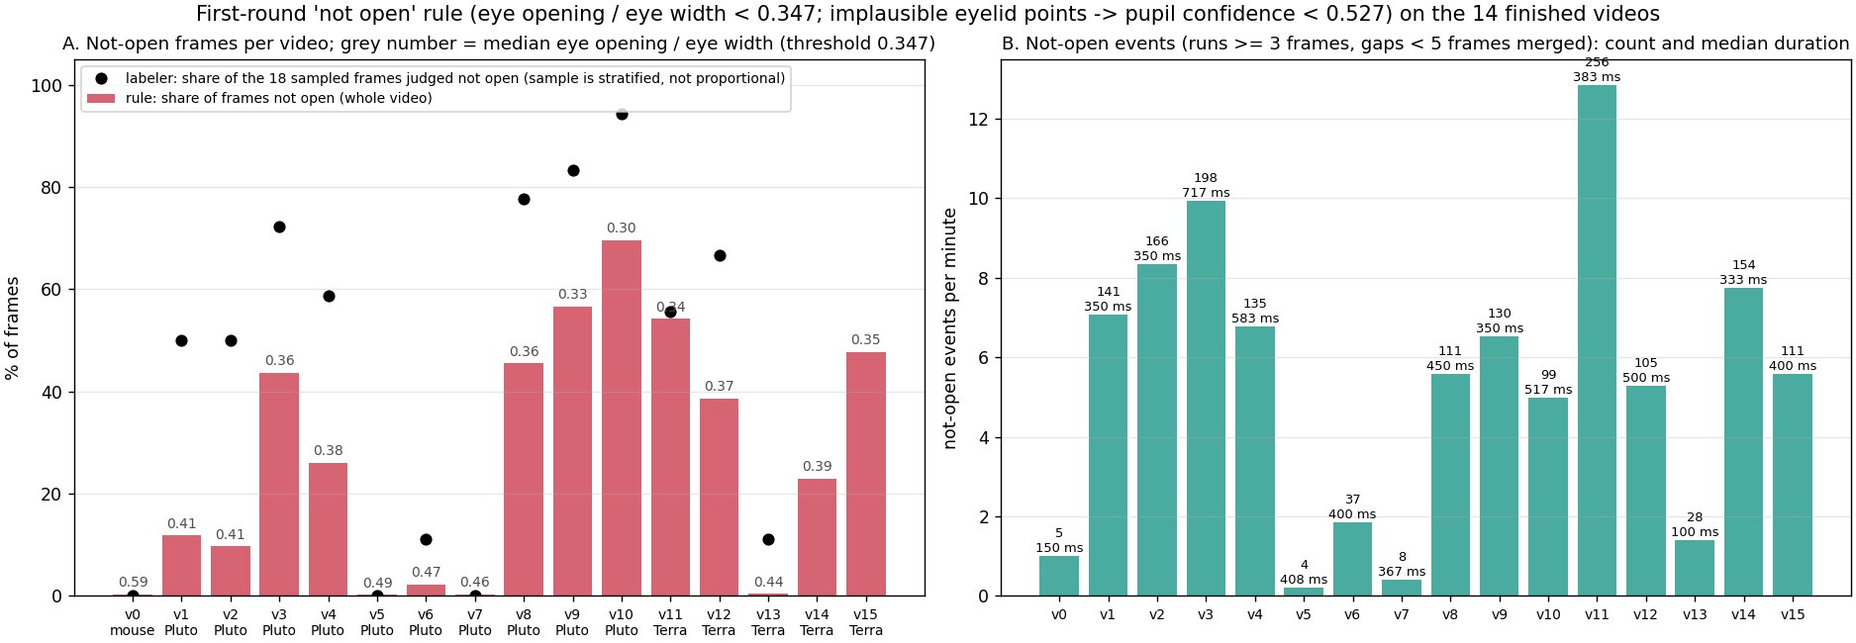
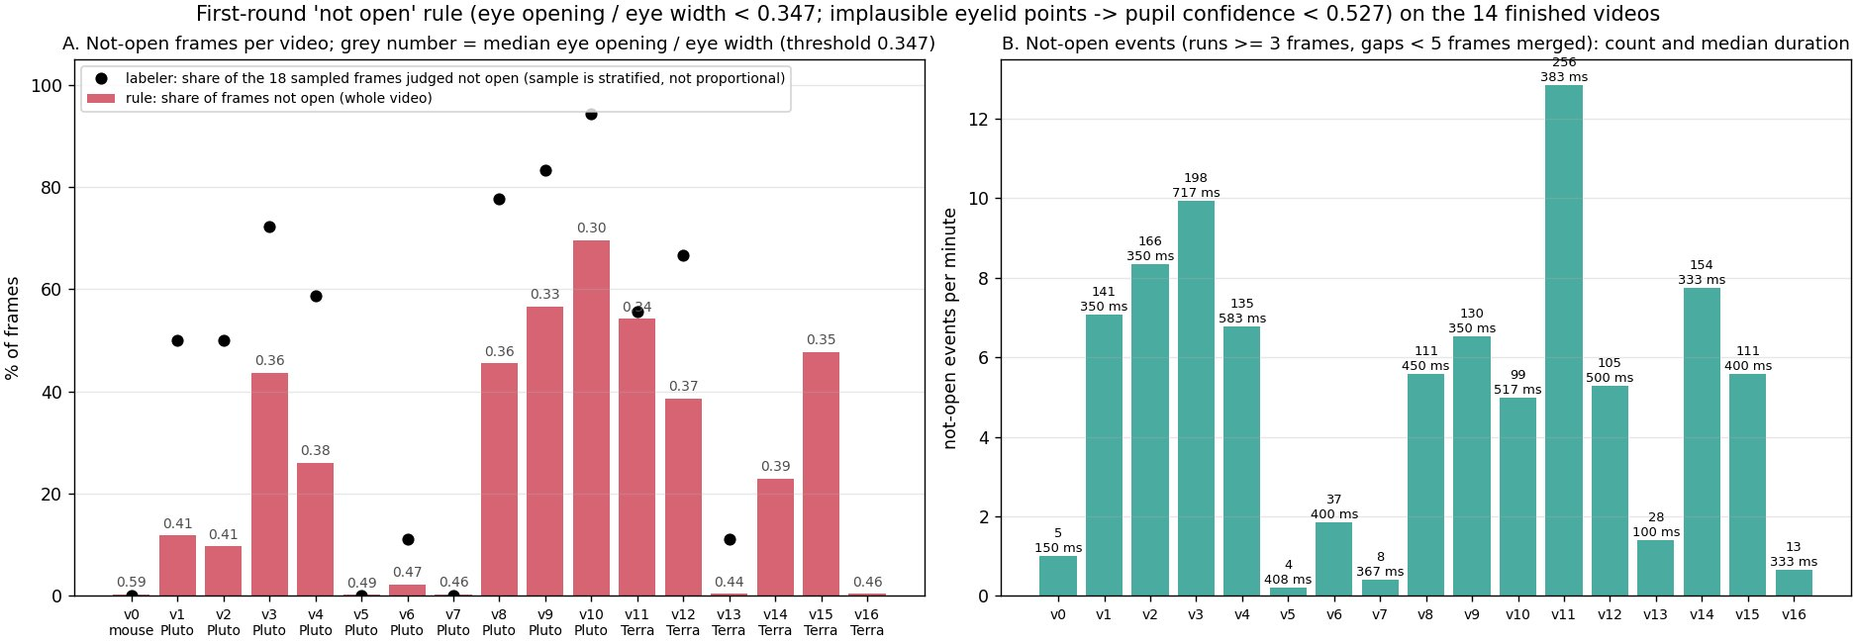
Summary page step 10.2: not-open rule on 17 videos

diff --git a/report/index.html b/report/index.html
@@ -78,7 +78,7 @@ math[display="block"]{margin:10px 0 6px;text-align:left;overflow-x:auto;max-widt
 
 <header>
   <h1><span lang="zh">小鼠眼睛关键点追踪：做了什么，结果是什么</span><span lang="en">Mouse eye keypoint tracking: what was done and what came out</span></h1>
-  <p class="muted small">Zhiheng Li (University of Minnesota), Kaiwen Sheng (Stanford) · <span lang="zh">页面生成时间</span><span lang="en">page built</span> 2026-10-10 12:50 · <a href="https://github.com/ZhihengLi0/mouse-behavior-tracking">GitHub: ZhihengLi0/mouse-behavior-tracking</a></p>
+  <p class="muted small">Zhiheng Li (University of Minnesota), Kaiwen Sheng (Stanford) · <span lang="zh">页面生成时间</span><span lang="en">page built</span> 2026-10-10 12:51 · <a href="https://github.com/ZhihengLi0/mouse-behavior-tracking">GitHub: ZhihengLi0/mouse-behavior-tracking</a></p>
 
   <div class="text" lang="zh">
     <p><b>任务：</b>用 DeepLabCut 在小鼠眼睛视频的每一帧上找 8 个点：瞳孔上、下、左、右，上眼睑、下眼睑，鼻侧眼角、颞侧眼角。由这 8 个点得到瞳孔大小、眼睛睁开程度和眨眼，之后与脑记录对齐。</p>
@@ -461,7 +461,7 @@ math[display="block"]{margin:10px 0 6px;text-align:left;overflow-x:auto;max-widt
       <li><b>视频 0：</b>第一只老鼠的 5 分钟视频。</li>
       <li><b>视频 1、2、3：</b>第二只老鼠 Pluto，同一天（2025-10-31）录的三段，每段 19.9 分钟。</li>
       <li><b>视频 4–10：</b>Pluto，每个录制日一段，日期从近到远：10-30、10-29、10-28、10-27、10-24、10-23、10-22（我们手里没有 10-26、10-25 的视频）。</li>
-      <li><b>视频 11 起：</b>第三只老鼠 Terra，每个录制日一段，日期从近到远：视频 11 是 2025-10-17，视频 12 是 10-16，之后依次是 10-15、10-14、10-13、10-10、10-09、10-08（视频 13–18，还没有做）。</li>
+      <li><b>视频 11 起：</b>第三只老鼠 Terra，每个录制日一段，日期从近到远：视频 11 是 2025-10-17，视频 12 是 10-16，之后依次是 10-15、10-14、10-13、10-10、10-09、10-08（视频 13–18；视频 17、18 还没有做完）。</li>
     </ul>
     <p>每个视频的流程相同：</p>
     <ol>
@@ -478,7 +478,7 @@ math[display="block"]{margin:10px 0 6px;text-align:left;overflow-x:auto;max-widt
       <li><b>Video 0:</b> the 5-minute video of the first mouse.</li>
       <li><b>Videos 1, 2, 3:</b> the second mouse, Pluto; three recordings of the same day (2025-10-31), 19.9 minutes each.</li>
       <li><b>Videos 4–10:</b> Pluto, one recording per recording day, from the most recent backwards: 10-30, 10-29, 10-28, 10-27, 10-24, 10-23, 10-22 (there is no video of 10-26 or 10-25 in our set).</li>
-      <li><b>From video 11:</b> the third mouse, Terra, one recording per recording day, from the most recent backwards: video 11 is 2025-10-17, video 12 is 10-16, then 10-15, 10-14, 10-13, 10-10, 10-09, 10-08 (videos 13–18, not done yet).</li>
+      <li><b>From video 11:</b> the third mouse, Terra, one recording per recording day, from the most recent backwards: video 11 is 2025-10-17, video 12 is 10-16, then 10-15, 10-14, 10-13, 10-10, 10-09, 10-08 (videos 13–18; videos 17 and 18 are not finished yet).</li>
     </ul>
     <p>Every video follows the same steps:</p>
     <ol>
@@ -1068,13 +1068,13 @@ math[display="block"]{margin:10px 0 6px;text-align:left;overflow-x:auto;max-widt
   <h3><span lang="zh">10.2 第一轮的定义定下来之后：按帧的"非睁眼"规则和它的验证</span><span lang="en">10.2 With the first-round definition fixed: a per-frame "not open" rule and its check</span></h3>
   <div class="text" lang="zh">
     <p><b>定义（2026 年 10 月 6 日定）：</b>第一轮只分两种状态——<b>睁开</b>，和<b>非睁眼</b>（眼睛闭上，或眼睑盖住了部分瞳孔）。眨眼、长时间闭眼、眯眼的细分放到下一轮。</p>
-    <p><b>基本信息：</b>视频 0–15，各视频平台点模型对整段视频的预测（盲评样本抽自视频 0–13）。真值：标注者对 240 帧单帧的盲评（2026 年 10 月 6 日；每个视频 18 帧，按模型的相对睁开高度 r 分五层随机抽：r &lt; 0.70、0.70–0.85、0.85–1.00、≥ 1.00 各 4 帧，眼睑点失效 2 帧；与前两轮抽查不重叠；页面只显示单帧原图，不显示任何数值），三选一：睁开 / 非睁眼 / 看不清。239 帧有判断，113 帧非睁眼，没有"看不清"。原图和判断见附录 2。脚本：<code>scripts/blink_notopen_frames_sample.py</code>（抽样）、<code>blink_notopen_frames_eval.py</code>（信号比较）、<code>blink_notopen_rule.py</code>（最终规则和整段结果）；结果 <code>results/blink_eyelid_distance/blink_notopen_*</code>。</p>
+    <p><b>基本信息：</b>视频 0–16，各视频平台点模型对整段视频的预测（盲评样本抽自视频 0–13）。真值：标注者对 240 帧单帧的盲评（2026 年 10 月 6 日；每个视频 18 帧，按模型的相对睁开高度 r 分五层随机抽：r &lt; 0.70、0.70–0.85、0.85–1.00、≥ 1.00 各 4 帧，眼睑点失效 2 帧；与前两轮抽查不重叠；页面只显示单帧原图，不显示任何数值），三选一：睁开 / 非睁眼 / 看不清。239 帧有判断，113 帧非睁眼，没有"看不清"。原图和判断见附录 2。脚本：<code>scripts/blink_notopen_frames_sample.py</code>（抽样）、<code>blink_notopen_frames_eval.py</code>（信号比较）、<code>blink_notopen_rule.py</code>（最终规则和整段结果）；结果 <code>results/blink_eyelid_distance/blink_notopen_*</code>。</p>
     <p><b>为什么要换信号：</b>10.1 的规则 D 用的是"睁开高度 ÷ 该视频的中位数"，它在 0.70–0.85 这一层的检出率是 0——因为按帧看，视频 3、8、9、10、11、12 里 r 在 0.70–1.00 的帧几乎全被判为非睁眼，而视频 0、5、7、13 里同样的帧全是睁开的（附录 2 一眼能看出）。也就是说"眼睑盖住部分瞳孔"在这些录像里是整段的常态，相对自己中位数的量看不见它。改用<b>绝对量</b>：睁开高度 O ÷ 眼宽 W（W = 该视频内外眼角距离的中位数，相机固定，各视频接近），它把两类帧分得很开（AUC 0.97；相对量 r 只有 0.85）。每个视频的 O/W 中位数也正好对上：被判为多数非睁眼的视频中位数 0.30–0.38，多数睁开的视频 0.41–0.59。</p>
     <p><b>最终规则（按帧）：</b>（1）眼睑点正常且 O / W &lt; <b>0.347</b> → 非睁眼；（2）眼睑点失效的帧，四个瞳孔点平均置信度 &lt; 0.527 → 非睁眼，否则睁开（10.1 里"失效一律算闭眼"是错的：28 帧失效里 13 帧眼睛是睁着的，用瞳孔置信度能分对 26 帧）；（3）连续 ≥ 3 帧算一次事件，间隔 &lt; 5 帧的合并。阈值 0.347 是在这 239 帧上选的（最大化"检出率 − 误报率"）；按"留一个视频"选阈值再判，结论相同（准确率 85%、检出率 91%）。</p>
   </div>
   <div class="text" lang="en">
     <p><b>Definition (fixed 2026-10-06):</b> the first round distinguishes two states only — <b>open</b>, and <b>not open</b> (the eye is closed, or the eyelid covers part of the pupil). Blink / long closure / squint come in the next round.</p>
-    <p><b>Basic information:</b> videos 0–15, whole-video prediction of each video's plateau-point model (the blind sample was drawn from videos 0–13). Truth: the labeler's blind verdict on 240 single frames (2026-10-06; 18 per video, drawn at random in five strata of the model's relative eye opening r: r &lt; 0.70, 0.70–0.85, 0.85–1.00, ≥ 1.00 with 4 frames each, 2 frames with implausible eyelid points; no overlap with the two earlier spot checks; the sheet shows the single original frame and no values), one of open / not open / cannot tell. 239 frames judged, 113 not open, no "cannot tell". Frames and verdicts in appendix A2. Scripts: <code>scripts/blink_notopen_frames_sample.py</code> (sample), <code>blink_notopen_frames_eval.py</code> (signal comparison), <code>blink_notopen_rule.py</code> (final rule and whole-video results); results <code>results/blink_eyelid_distance/blink_notopen_*</code>.</p>
+    <p><b>Basic information:</b> videos 0–16, whole-video prediction of each video's plateau-point model (the blind sample was drawn from videos 0–13). Truth: the labeler's blind verdict on 240 single frames (2026-10-06; 18 per video, drawn at random in five strata of the model's relative eye opening r: r &lt; 0.70, 0.70–0.85, 0.85–1.00, ≥ 1.00 with 4 frames each, 2 frames with implausible eyelid points; no overlap with the two earlier spot checks; the sheet shows the single original frame and no values), one of open / not open / cannot tell. 239 frames judged, 113 not open, no "cannot tell". Frames and verdicts in appendix A2. Scripts: <code>scripts/blink_notopen_frames_sample.py</code> (sample), <code>blink_notopen_frames_eval.py</code> (signal comparison), <code>blink_notopen_rule.py</code> (final rule and whole-video results); results <code>results/blink_eyelid_distance/blink_notopen_*</code>.</p>
     <p><b>Why the signal had to change:</b> rule D of 10.1 uses the eye opening relative to the video's own median, and its recall in the 0.70–0.85 stratum is 0 — because, frame by frame, almost every frame with r in 0.70–1.00 of videos 3, 8, 9, 10, 11 and 12 was judged not open, while the same frames of videos 0, 5, 7 and 13 were all open (appendix A2 shows it at a glance). "Lid over part of the pupil" is the resting state of those recordings, and a quantity relative to the video's own median cannot see it. The <b>absolute</b> eye opening O ÷ eye width W (W = median corner-to-corner distance of the video; the camera is fixed, so W is similar across videos) separates the two classes well (AUC 0.97; the relative r only 0.85). The per-video medians of O/W agree: 0.30–0.38 in the videos judged mostly not open, 0.41–0.59 in the videos judged open.</p>
     <p><b>Final rule (per frame):</b> (1) eyelid points plausible and O / W &lt; <b>0.347</b> → not open; (2) frame with implausible eyelid points: not open if the mean confidence of the four pupil points &lt; 0.527, otherwise open ("implausible = closed" of 10.1 was wrong: 13 of 28 implausible frames show an open eye, and the pupil confidence gets 26 of the 28 right); (3) runs of ≥ 3 frames are events, gaps &lt; 5 frames merged. The threshold 0.347 was chosen on these 239 frames (maximizing recall − false-alarm rate); with leave-one-video-out thresholds the conclusion is the same (precision 85%, recall 91%).</p>
   </div>
@@ -1098,7 +1098,7 @@ math[display="block"]{margin:10px 0 6px;text-align:left;overflow-x:auto;max-widt
   <div class="concl" lang="zh"><span class="tag">10.2 的结论：</span>按"非睁眼 = 闭上或部分盖住"的定义，绝对睁开高度的规则在单帧上准确率 91%；它揭示的主要事实是：<b>非睁眼在这些录像里是一种状态，不是偶发事件。</b>
     <ol>
       <li><b>准确率：</b>239 帧盲评里规则判对 217 帧（90.8%）；规则判为非睁眼的帧 89% 是真的，真非睁眼的帧 92% 被找到。错得最多的一层是 r 在 0.85–1.00（55 帧错 10 帧），那是眼睑刚碰到瞳孔上缘的边界情况。</li>
-      <li><b>16 个视频分成两类：</b>视频 0、5、7、13 几乎全程睁开（非睁眼帧 0.2–0.4%）；视频 1、2、6 为 2–12%，视频 14 为 23%；<b>视频 3、4、8、9、10、11、12、15 有 26–70% 的时间眼睛不是完全睁开的</b>，最长的一次连续非睁眼持续 44–212 秒。这些录像里眼睛的常态就是半掩的，O/W 的中位数 0.30–0.38（睁开的视频 0.41–0.59）。</li>
+      <li><b>17 个视频分成两类：</b>视频 0、5、7、13、16 几乎全程睁开（非睁眼帧 0.2–0.4%）；视频 1、2、6 为 2–12%，视频 14 为 23%；<b>视频 3、4、8、9、10、11、12、15 有 26–70% 的时间眼睛不是完全睁开的</b>，最长的一次连续非睁眼持续 44–212 秒。这些录像里眼睛的常态就是半掩的，O/W 的中位数 0.30–0.38（睁开的视频 0.41–0.59）。</li>
       <li><b>事件数：</b>每分钟 0.2–12.8 次，时长中位数 100–717 毫秒。在半掩为常态的视频里，"事件"大多是半掩状态中间短暂睁开后的再次合上，不能当成眨眼次数。</li>
       <li><b>对眨眼的含义：</b>眨眼（短暂、完全闭合）只是"非睁眼"的一个子集。要数眨眼，下一轮需要在这个状态判断上再按深度（O/W 低到多少）和时长（多短）切分——10.1 里完全闭眼的 18 项全在 r &lt; 0.70 以下，说明这一刀是切得开的。</li>
       <li><b>限制：</b>一个人判断；阈值在验证帧上选（留一视频的数字略低：85% / 91%）；每个视频只用一个模型；"眼睑盖住部分瞳孔"的判断本身有边界（r 0.85–1.00 那一层），标注者第二次判同一批帧的一致性没有量过。</li>
@@ -1107,7 +1107,7 @@ math[display="block"]{margin:10px 0 6px;text-align:left;overflow-x:auto;max-widt
   <div class="concl" lang="en"><span class="tag">Conclusion of 10.2:</span>Under the definition "not open = closed or partly covered", the absolute-eye-opening rule is 91% accurate per frame; its main finding is that <b>not-open is a state in these recordings, not an occasional event.</b>
     <ol>
       <li><b>Accuracy:</b> 217 of the 239 blind frames are classified correctly (90.8%); 89% of the frames the rule calls not open are, and 92% of the truly not-open frames are found. Most mistakes are in the r 0.85–1.00 stratum (10 of 55), the borderline where the lid just touches the top of the pupil.</li>
-      <li><b>The 16 videos fall into two groups:</b> videos 0, 5, 7 and 13 are open almost throughout (0.2–0.4% not-open frames); videos 1, 2, 6 have 2–12% and video 14 23%; <b>videos 3, 4, 8, 9, 10, 11, 12 and 15 have the eye not fully open 26–70% of the time</b>, with single not-open stretches of 44–212 s. In those recordings a half-covered eye is the resting state: median O/W 0.30–0.38 against 0.41–0.59 in the open videos.</li>
+      <li><b>The 17 videos fall into two groups:</b> videos 0, 5, 7, 13 and 16 are open almost throughout (0.2–0.4% not-open frames); videos 1, 2, 6 have 2–12% and video 14 23%; <b>videos 3, 4, 8, 9, 10, 11, 12 and 15 have the eye not fully open 26–70% of the time</b>, with single not-open stretches of 44–212 s. In those recordings a half-covered eye is the resting state: median O/W 0.30–0.38 against 0.41–0.59 in the open videos.</li>
       <li><b>Events:</b> 0.2–12.8 per minute, median duration 100–717 ms. In the half-covered videos most "events" are re-closings after brief openings within the covered state and must not be read as blink counts.</li>
       <li><b>What it means for blinks:</b> a blink (brief, full closure) is a subset of "not open". Counting blinks needs a further split of this state by depth (how low O/W goes) and duration (how brief) — all 18 full closures of 10.1 lie below r 0.70, so that cut is feasible.</li>
       <li><b>Limits:</b> one judge; the threshold was chosen on the validation frames (leave-one-video-out gives slightly lower numbers: 85% / 91%); one model per video; the judgement "lid covers part of the pupil" has its own borderline (the r 0.85–1.00 stratum), and the labeler's repeatability on the same frames was not measured.</li>

diff --git a/report/template.html b/report/template.html
@@ -461,7 +461,7 @@ math[display="block"]{margin:10px 0 6px;text-align:left;overflow-x:auto;max-widt
       <li><b>视频 0：</b>第一只老鼠的 5 分钟视频。</li>
       <li><b>视频 1、2、3：</b>第二只老鼠 Pluto，同一天（2025-10-31）录的三段，每段 19.9 分钟。</li>
       <li><b>视频 4–10：</b>Pluto，每个录制日一段，日期从近到远：10-30、10-29、10-28、10-27、10-24、10-23、10-22（我们手里没有 10-26、10-25 的视频）。</li>
-      <li><b>视频 11 起：</b>第三只老鼠 Terra，每个录制日一段，日期从近到远：视频 11 是 2025-10-17，视频 12 是 10-16，之后依次是 10-15、10-14、10-13、10-10、10-09、10-08（视频 13–18，还没有做）。</li>
+      <li><b>视频 11 起：</b>第三只老鼠 Terra，每个录制日一段，日期从近到远：视频 11 是 2025-10-17，视频 12 是 10-16，之后依次是 10-15、10-14、10-13、10-10、10-09、10-08（视频 13–18；视频 17、18 还没有做完）。</li>
     </ul>
     <p>每个视频的流程相同：</p>
     <ol>
@@ -478,7 +478,7 @@ math[display="block"]{margin:10px 0 6px;text-align:left;overflow-x:auto;max-widt
       <li><b>Video 0:</b> the 5-minute video of the first mouse.</li>
       <li><b>Videos 1, 2, 3:</b> the second mouse, Pluto; three recordings of the same day (2025-10-31), 19.9 minutes each.</li>
       <li><b>Videos 4–10:</b> Pluto, one recording per recording day, from the most recent backwards: 10-30, 10-29, 10-28, 10-27, 10-24, 10-23, 10-22 (there is no video of 10-26 or 10-25 in our set).</li>
-      <li><b>From video 11:</b> the third mouse, Terra, one recording per recording day, from the most recent backwards: video 11 is 2025-10-17, video 12 is 10-16, then 10-15, 10-14, 10-13, 10-10, 10-09, 10-08 (videos 13–18, not done yet).</li>
+      <li><b>From video 11:</b> the third mouse, Terra, one recording per recording day, from the most recent backwards: video 11 is 2025-10-17, video 12 is 10-16, then 10-15, 10-14, 10-13, 10-10, 10-09, 10-08 (videos 13–18; videos 17 and 18 are not finished yet).</li>
     </ul>
     <p>Every video follows the same steps:</p>
     <ol>
@@ -972,13 +972,13 @@ math[display="block"]{margin:10px 0 6px;text-align:left;overflow-x:auto;max-widt
   <h3><span lang="zh">10.2 第一轮的定义定下来之后：按帧的"非睁眼"规则和它的验证</span><span lang="en">10.2 With the first-round definition fixed: a per-frame "not open" rule and its check</span></h3>
   <div class="text" lang="zh">
     <p><b>定义（2026 年 10 月 6 日定）：</b>第一轮只分两种状态——<b>睁开</b>，和<b>非睁眼</b>（眼睛闭上，或眼睑盖住了部分瞳孔）。眨眼、长时间闭眼、眯眼的细分放到下一轮。</p>
-    <p><b>基本信息：</b>视频 0–15，各视频平台点模型对整段视频的预测（盲评样本抽自视频 0–13）。真值：标注者对 240 帧单帧的盲评（2026 年 10 月 6 日；每个视频 18 帧，按模型的相对睁开高度 r 分五层随机抽：r &lt; 0.70、0.70–0.85、0.85–1.00、≥ 1.00 各 4 帧，眼睑点失效 2 帧；与前两轮抽查不重叠；页面只显示单帧原图，不显示任何数值），三选一：睁开 / 非睁眼 / 看不清。239 帧有判断，113 帧非睁眼，没有"看不清"。原图和判断见附录 2。脚本：<code>scripts/blink_notopen_frames_sample.py</code>（抽样）、<code>blink_notopen_frames_eval.py</code>（信号比较）、<code>blink_notopen_rule.py</code>（最终规则和整段结果）；结果 <code>results/blink_eyelid_distance/blink_notopen_*</code>。</p>
+    <p><b>基本信息：</b>视频 0–16，各视频平台点模型对整段视频的预测（盲评样本抽自视频 0–13）。真值：标注者对 240 帧单帧的盲评（2026 年 10 月 6 日；每个视频 18 帧，按模型的相对睁开高度 r 分五层随机抽：r &lt; 0.70、0.70–0.85、0.85–1.00、≥ 1.00 各 4 帧，眼睑点失效 2 帧；与前两轮抽查不重叠；页面只显示单帧原图，不显示任何数值），三选一：睁开 / 非睁眼 / 看不清。239 帧有判断，113 帧非睁眼，没有"看不清"。原图和判断见附录 2。脚本：<code>scripts/blink_notopen_frames_sample.py</code>（抽样）、<code>blink_notopen_frames_eval.py</code>（信号比较）、<code>blink_notopen_rule.py</code>（最终规则和整段结果）；结果 <code>results/blink_eyelid_distance/blink_notopen_*</code>。</p>
     <p><b>为什么要换信号：</b>10.1 的规则 D 用的是"睁开高度 ÷ 该视频的中位数"，它在 0.70–0.85 这一层的检出率是 0——因为按帧看，视频 3、8、9、10、11、12 里 r 在 0.70–1.00 的帧几乎全被判为非睁眼，而视频 0、5、7、13 里同样的帧全是睁开的（附录 2 一眼能看出）。也就是说"眼睑盖住部分瞳孔"在这些录像里是整段的常态，相对自己中位数的量看不见它。改用<b>绝对量</b>：睁开高度 O ÷ 眼宽 W（W = 该视频内外眼角距离的中位数，相机固定，各视频接近），它把两类帧分得很开（AUC 0.97；相对量 r 只有 0.85）。每个视频的 O/W 中位数也正好对上：被判为多数非睁眼的视频中位数 0.30–0.38，多数睁开的视频 0.41–0.59。</p>
     <p><b>最终规则（按帧）：</b>（1）眼睑点正常且 O / W &lt; <b>0.347</b> → 非睁眼；（2）眼睑点失效的帧，四个瞳孔点平均置信度 &lt; 0.527 → 非睁眼，否则睁开（10.1 里"失效一律算闭眼"是错的：28 帧失效里 13 帧眼睛是睁着的，用瞳孔置信度能分对 26 帧）；（3）连续 ≥ 3 帧算一次事件，间隔 &lt; 5 帧的合并。阈值 0.347 是在这 239 帧上选的（最大化"检出率 − 误报率"）；按"留一个视频"选阈值再判，结论相同（准确率 85%、检出率 91%）。</p>
   </div>
   <div class="text" lang="en">
     <p><b>Definition (fixed 2026-10-06):</b> the first round distinguishes two states only — <b>open</b>, and <b>not open</b> (the eye is closed, or the eyelid covers part of the pupil). Blink / long closure / squint come in the next round.</p>
-    <p><b>Basic information:</b> videos 0–15, whole-video prediction of each video's plateau-point model (the blind sample was drawn from videos 0–13). Truth: the labeler's blind verdict on 240 single frames (2026-10-06; 18 per video, drawn at random in five strata of the model's relative eye opening r: r &lt; 0.70, 0.70–0.85, 0.85–1.00, ≥ 1.00 with 4 frames each, 2 frames with implausible eyelid points; no overlap with the two earlier spot checks; the sheet shows the single original frame and no values), one of open / not open / cannot tell. 239 frames judged, 113 not open, no "cannot tell". Frames and verdicts in appendix A2. Scripts: <code>scripts/blink_notopen_frames_sample.py</code> (sample), <code>blink_notopen_frames_eval.py</code> (signal comparison), <code>blink_notopen_rule.py</code> (final rule and whole-video results); results <code>results/blink_eyelid_distance/blink_notopen_*</code>.</p>
+    <p><b>Basic information:</b> videos 0–16, whole-video prediction of each video's plateau-point model (the blind sample was drawn from videos 0–13). Truth: the labeler's blind verdict on 240 single frames (2026-10-06; 18 per video, drawn at random in five strata of the model's relative eye opening r: r &lt; 0.70, 0.70–0.85, 0.85–1.00, ≥ 1.00 with 4 frames each, 2 frames with implausible eyelid points; no overlap with the two earlier spot checks; the sheet shows the single original frame and no values), one of open / not open / cannot tell. 239 frames judged, 113 not open, no "cannot tell". Frames and verdicts in appendix A2. Scripts: <code>scripts/blink_notopen_frames_sample.py</code> (sample), <code>blink_notopen_frames_eval.py</code> (signal comparison), <code>blink_notopen_rule.py</code> (final rule and whole-video results); results <code>results/blink_eyelid_distance/blink_notopen_*</code>.</p>
     <p><b>Why the signal had to change:</b> rule D of 10.1 uses the eye opening relative to the video's own median, and its recall in the 0.70–0.85 stratum is 0 — because, frame by frame, almost every frame with r in 0.70–1.00 of videos 3, 8, 9, 10, 11 and 12 was judged not open, while the same frames of videos 0, 5, 7 and 13 were all open (appendix A2 shows it at a glance). "Lid over part of the pupil" is the resting state of those recordings, and a quantity relative to the video's own median cannot see it. The <b>absolute</b> eye opening O ÷ eye width W (W = median corner-to-corner distance of the video; the camera is fixed, so W is similar across videos) separates the two classes well (AUC 0.97; the relative r only 0.85). The per-video medians of O/W agree: 0.30–0.38 in the videos judged mostly not open, 0.41–0.59 in the videos judged open.</p>
     <p><b>Final rule (per frame):</b> (1) eyelid points plausible and O / W &lt; <b>0.347</b> → not open; (2) frame with implausible eyelid points: not open if the mean confidence of the four pupil points &lt; 0.527, otherwise open ("implausible = closed" of 10.1 was wrong: 13 of 28 implausible frames show an open eye, and the pupil confidence gets 26 of the 28 right); (3) runs of ≥ 3 frames are events, gaps &lt; 5 frames merged. The threshold 0.347 was chosen on these 239 frames (maximizing recall − false-alarm rate); with leave-one-video-out thresholds the conclusion is the same (precision 85%, recall 91%).</p>
   </div>
@@ -1002,7 +1002,7 @@ math[display="block"]{margin:10px 0 6px;text-align:left;overflow-x:auto;max-widt
   <div class="concl" lang="zh"><span class="tag">10.2 的结论：</span>按"非睁眼 = 闭上或部分盖住"的定义，绝对睁开高度的规则在单帧上准确率 91%；它揭示的主要事实是：<b>非睁眼在这些录像里是一种状态，不是偶发事件。</b>
     <ol>
       <li><b>准确率：</b>239 帧盲评里规则判对 217 帧（90.8%）；规则判为非睁眼的帧 89% 是真的，真非睁眼的帧 92% 被找到。错得最多的一层是 r 在 0.85–1.00（55 帧错 10 帧），那是眼睑刚碰到瞳孔上缘的边界情况。</li>
-      <li><b>16 个视频分成两类：</b>视频 0、5、7、13 几乎全程睁开（非睁眼帧 0.2–0.4%）；视频 1、2、6 为 2–12%，视频 14 为 23%；<b>视频 3、4、8、9、10、11、12、15 有 26–70% 的时间眼睛不是完全睁开的</b>，最长的一次连续非睁眼持续 44–212 秒。这些录像里眼睛的常态就是半掩的，O/W 的中位数 0.30–0.38（睁开的视频 0.41–0.59）。</li>
+      <li><b>17 个视频分成两类：</b>视频 0、5、7、13、16 几乎全程睁开（非睁眼帧 0.2–0.4%）；视频 1、2、6 为 2–12%，视频 14 为 23%；<b>视频 3、4、8、9、10、11、12、15 有 26–70% 的时间眼睛不是完全睁开的</b>，最长的一次连续非睁眼持续 44–212 秒。这些录像里眼睛的常态就是半掩的，O/W 的中位数 0.30–0.38（睁开的视频 0.41–0.59）。</li>
       <li><b>事件数：</b>每分钟 0.2–12.8 次，时长中位数 100–717 毫秒。在半掩为常态的视频里，"事件"大多是半掩状态中间短暂睁开后的再次合上，不能当成眨眼次数。</li>
       <li><b>对眨眼的含义：</b>眨眼（短暂、完全闭合）只是"非睁眼"的一个子集。要数眨眼，下一轮需要在这个状态判断上再按深度（O/W 低到多少）和时长（多短）切分——10.1 里完全闭眼的 18 项全在 r &lt; 0.70 以下，说明这一刀是切得开的。</li>
       <li><b>限制：</b>一个人判断；阈值在验证帧上选（留一视频的数字略低：85% / 91%）；每个视频只用一个模型；"眼睑盖住部分瞳孔"的判断本身有边界（r 0.85–1.00 那一层），标注者第二次判同一批帧的一致性没有量过。</li>
@@ -1011,7 +1011,7 @@ math[display="block"]{margin:10px 0 6px;text-align:left;overflow-x:auto;max-widt
   <div class="concl" lang="en"><span class="tag">Conclusion of 10.2:</span>Under the definition "not open = closed or partly covered", the absolute-eye-opening rule is 91% accurate per frame; its main finding is that <b>not-open is a state in these recordings, not an occasional event.</b>
     <ol>
       <li><b>Accuracy:</b> 217 of the 239 blind frames are classified correctly (90.8%); 89% of the frames the rule calls not open are, and 92% of the truly not-open frames are found. Most mistakes are in the r 0.85–1.00 stratum (10 of 55), the borderline where the lid just touches the top of the pupil.</li>
-      <li><b>The 16 videos fall into two groups:</b> videos 0, 5, 7 and 13 are open almost throughout (0.2–0.4% not-open frames); videos 1, 2, 6 have 2–12% and video 14 23%; <b>videos 3, 4, 8, 9, 10, 11, 12 and 15 have the eye not fully open 26–70% of the time</b>, with single not-open stretches of 44–212 s. In those recordings a half-covered eye is the resting state: median O/W 0.30–0.38 against 0.41–0.59 in the open videos.</li>
+      <li><b>The 17 videos fall into two groups:</b> videos 0, 5, 7, 13 and 16 are open almost throughout (0.2–0.4% not-open frames); videos 1, 2, 6 have 2–12% and video 14 23%; <b>videos 3, 4, 8, 9, 10, 11, 12 and 15 have the eye not fully open 26–70% of the time</b>, with single not-open stretches of 44–212 s. In those recordings a half-covered eye is the resting state: median O/W 0.30–0.38 against 0.41–0.59 in the open videos.</li>
       <li><b>Events:</b> 0.2–12.8 per minute, median duration 100–717 ms. In the half-covered videos most "events" are re-closings after brief openings within the covered state and must not be read as blink counts.</li>
       <li><b>What it means for blinks:</b> a blink (brief, full closure) is a subset of "not open". Counting blinks needs a further split of this state by depth (how low O/W goes) and duration (how brief) — all 18 full closures of 10.1 lie below r 0.70, so that cut is feasible.</li>
       <li><b>Limits:</b> one judge; the threshold was chosen on the validation frames (leave-one-video-out gives slightly lower numbers: 85% / 91%); one model per video; the judgement "lid covers part of the pupil" has its own borderline (the r 0.85–1.00 stratum), and the labeler's repeatability on the same frames was not measured.</li>

diff --git a/report/index_en.html b/report/index_en.html
@@ -75,7 +75,7 @@ math[display="block"]{margin:10px 0 6px;text-align:left;overflow-x:auto;max-widt
 
 <header>
   <h1><span lang="en">Mouse eye keypoint tracking: what was done and what came out</span></h1>
-  <p class="muted small">Zhiheng Li (University of Minnesota), Kaiwen Sheng (Stanford) · <span lang="en">page built</span> 2026-10-10 12:50 · <a href="https://github.com/ZhihengLi0/mouse-behavior-tracking">GitHub: ZhihengLi0/mouse-behavior-tracking</a></p>
+  <p class="muted small">Zhiheng Li (University of Minnesota), Kaiwen Sheng (Stanford) · <span lang="en">page built</span> 2026-10-10 12:51 · <a href="https://github.com/ZhihengLi0/mouse-behavior-tracking">GitHub: ZhihengLi0/mouse-behavior-tracking</a></p>
 
   
   <div class="text" lang="en">
@@ -382,7 +382,7 @@ math[display="block"]{margin:10px 0 6px;text-align:left;overflow-x:auto;max-widt
       <li><b>Video 0:</b> the 5-minute video of the first mouse.</li>
       <li><b>Videos 1, 2, 3:</b> the second mouse, Pluto; three recordings of the same day (2025-10-31), 19.9 minutes each.</li>
       <li><b>Videos 4–10:</b> Pluto, one recording per recording day, from the most recent backwards: 10-30, 10-29, 10-28, 10-27, 10-24, 10-23, 10-22 (there is no video of 10-26 or 10-25 in our set).</li>
-      <li><b>From video 11:</b> the third mouse, Terra, one recording per recording day, from the most recent backwards: video 11 is 2025-10-17, video 12 is 10-16, then 10-15, 10-14, 10-13, 10-10, 10-09, 10-08 (videos 13–18, not done yet).</li>
+      <li><b>From video 11:</b> the third mouse, Terra, one recording per recording day, from the most recent backwards: video 11 is 2025-10-17, video 12 is 10-16, then 10-15, 10-14, 10-13, 10-10, 10-09, 10-08 (videos 13–18; videos 17 and 18 are not finished yet).</li>
     </ul>
     <p>Every video follows the same steps:</p>
     <ol>
@@ -855,7 +855,7 @@ math[display="block"]{margin:10px 0 6px;text-align:left;overflow-x:auto;max-widt
   
   <div class="text" lang="en">
     <p><b>Definition (fixed 2026-10-06):</b> the first round distinguishes two states only — <b>open</b>, and <b>not open</b> (the eye is closed, or the eyelid covers part of the pupil). Blink / long closure / squint come in the next round.</p>
-    <p><b>Basic information:</b> videos 0–15, whole-video prediction of each video's plateau-point model (the blind sample was drawn from videos 0–13). Truth: the labeler's blind verdict on 240 single frames (2026-10-06; 18 per video, drawn at random in five strata of the model's relative eye opening r: r &lt; 0.70, 0.70–0.85, 0.85–1.00, ≥ 1.00 with 4 frames each, 2 frames with implausible eyelid points; no overlap with the two earlier spot checks; the sheet shows the single original frame and no values), one of open / not open / cannot tell. 239 frames judged, 113 not open, no "cannot tell". Frames and verdicts in appendix A2. Scripts: <code>scripts/blink_notopen_frames_sample.py</code> (sample), <code>blink_notopen_frames_eval.py</code> (signal comparison), <code>blink_notopen_rule.py</code> (final rule and whole-video results); results <code>results/blink_eyelid_distance/blink_notopen_*</code>.</p>
+    <p><b>Basic information:</b> videos 0–16, whole-video prediction of each video's plateau-point model (the blind sample was drawn from videos 0–13). Truth: the labeler's blind verdict on 240 single frames (2026-10-06; 18 per video, drawn at random in five strata of the model's relative eye opening r: r &lt; 0.70, 0.70–0.85, 0.85–1.00, ≥ 1.00 with 4 frames each, 2 frames with implausible eyelid points; no overlap with the two earlier spot checks; the sheet shows the single original frame and no values), one of open / not open / cannot tell. 239 frames judged, 113 not open, no "cannot tell". Frames and verdicts in appendix A2. Scripts: <code>scripts/blink_notopen_frames_sample.py</code> (sample), <code>blink_notopen_frames_eval.py</code> (signal comparison), <code>blink_notopen_rule.py</code> (final rule and whole-video results); results <code>results/blink_eyelid_distance/blink_notopen_*</code>.</p>
     <p><b>Why the signal had to change:</b> rule D of 10.1 uses the eye opening relative to the video's own median, and its recall in the 0.70–0.85 stratum is 0 — because, frame by frame, almost every frame with r in 0.70–1.00 of videos 3, 8, 9, 10, 11 and 12 was judged not open, while the same frames of videos 0, 5, 7 and 13 were all open (appendix A2 shows it at a glance). "Lid over part of the pupil" is the resting state of those recordings, and a quantity relative to the video's own median cannot see it. The <b>absolute</b> eye opening O ÷ eye width W (W = median corner-to-corner distance of the video; the camera is fixed, so W is similar across videos) separates the two classes well (AUC 0.97; the relative r only 0.85). The per-video medians of O/W agree: 0.30–0.38 in the videos judged mostly not open, 0.41–0.59 in the videos judged open.</p>
     <p><b>Final rule (per frame):</b> (1) eyelid points plausible and O / W &lt; <b>0.347</b> → not open; (2) frame with implausible eyelid points: not open if the mean confidence of the four pupil points &lt; 0.527, otherwise open ("implausible = closed" of 10.1 was wrong: 13 of 28 implausible frames show an open eye, and the pupil confidence gets 26 of the 28 right); (3) runs of ≥ 3 frames are events, gaps &lt; 5 frames merged. The threshold 0.347 was chosen on these 239 frames (maximizing recall − false-alarm rate); with leave-one-video-out thresholds the conclusion is the same (precision 85%, recall 91%).</p>
   </div>
@@ -880,7 +880,7 @@ math[display="block"]{margin:10px 0 6px;text-align:left;overflow-x:auto;max-widt
   <div class="concl" lang="en"><span class="tag">Conclusion of 10.2:</span>Under the definition "not open = closed or partly covered", the absolute-eye-opening rule is 91% accurate per frame; its main finding is that <b>not-open is a state in these recordings, not an occasional event.</b>
     <ol>
       <li><b>Accuracy:</b> 217 of the 239 blind frames are classified correctly (90.8%); 89% of the frames the rule calls not open are, and 92% of the truly not-open frames are found. Most mistakes are in the r 0.85–1.00 stratum (10 of 55), the borderline where the lid just touches the top of the pupil.</li>
-      <li><b>The 16 videos fall into two groups:</b> videos 0, 5, 7 and 13 are open almost throughout (0.2–0.4% not-open frames); videos 1, 2, 6 have 2–12% and video 14 23%; <b>videos 3, 4, 8, 9, 10, 11, 12 and 15 have the eye not fully open 26–70% of the time</b>, with single not-open stretches of 44–212 s. In those recordings a half-covered eye is the resting state: median O/W 0.30–0.38 against 0.41–0.59 in the open videos.</li>
+      <li><b>The 17 videos fall into two groups:</b> videos 0, 5, 7, 13 and 16 are open almost throughout (0.2–0.4% not-open frames); videos 1, 2, 6 have 2–12% and video 14 23%; <b>videos 3, 4, 8, 9, 10, 11, 12 and 15 have the eye not fully open 26–70% of the time</b>, with single not-open stretches of 44–212 s. In those recordings a half-covered eye is the resting state: median O/W 0.30–0.38 against 0.41–0.59 in the open videos.</li>
       <li><b>Events:</b> 0.2–12.8 per minute, median duration 100–717 ms. In the half-covered videos most "events" are re-closings after brief openings within the covered state and must not be read as blink counts.</li>
       <li><b>What it means for blinks:</b> a blink (brief, full closure) is a subset of "not open". Counting blinks needs a further split of this state by depth (how low O/W goes) and duration (how brief) — all 18 full closures of 10.1 lie below r 0.70, so that cut is feasible.</li>
       <li><b>Limits:</b> one judge; the threshold was chosen on the validation frames (leave-one-video-out gives slightly lower numbers: 85% / 91%); one model per video; the judgement "lid covers part of the pupil" has its own borderline (the r 0.85–1.00 stratum), and the labeler's repeatability on the same frames was not measured.</li>

diff --git a/v2_new_pupil_top_video_scaling/results/README.md b/v2_new_pupil_top_video_scaling/results/README.md
@@ -251,7 +251,7 @@ time (earlier videos only, never later ones), same recipe, same frozen test set 
 | `keypoint_confidence_error/` | `keypoint_confidence_error.py` | error and confidence of each of the 8 keypoints; one figure per video (`keypoint_confidence_error_videoNN.png`) and all videos together. Pupil top is the least accurate point (median 10.4 px on videos 0-16; the others 3.5-6.2 px) |
 
 | `unreliable_frames/` | `unreliable_frames.py` | check of the jump rule, of the confidence and of DLC's `fitting` detector (SARIMAX one-step deviation) on 1190 evenly spaced human-labeled frames (test50 + val20 of videos 0-16): the jump rule flags 12.2% of the frames and finds 21 of the 32 gross errors (> 50 px); lowest confidence < 0.6 finds all 32 but flags 52%; fitting > 20 px flags 2.3% and finds 23 of the 32 (85% of its flags are gross errors) |
-| `blink_eyelid_distance/` | `blink_by_eyelid_distance.py`, `blink_final_rule.py`, `blink_spotcheck_round2.py`, `blink_notopen_frames_sample.py`, `blink_notopen_frames_eval.py`, `blink_notopen_rule.py`, `blink_notopen_frames_sheet.py` | blinks, first round. Before the definition: relative eyelid-distance rule D with two spot checks (137 + 100 items; `blink_final_*`, `blink_r2_*`). With the definition "not open = closed or lid over part of the pupil" (2026-10-06): 240 blind single frames, absolute rule O / eye width < 0.347 (implausible eyelid points -> pupil confidence), accuracy 90.8% on 239 frames; 8 of 16 videos have the eye not fully open 26-70% of the time (`blink_notopen_*`) |
+| `blink_eyelid_distance/` | `blink_by_eyelid_distance.py`, `blink_final_rule.py`, `blink_spotcheck_round2.py`, `blink_notopen_frames_sample.py`, `blink_notopen_frames_eval.py`, `blink_notopen_rule.py`, `blink_notopen_frames_sheet.py` | blinks, first round. Before the definition: relative eyelid-distance rule D with two spot checks (137 + 100 items; `blink_final_*`, `blink_r2_*`). With the definition "not open = closed or lid over part of the pupil" (2026-10-06): 240 blind single frames, absolute rule O / eye width < 0.347 (implausible eyelid points -> pupil confidence), accuracy 90.8% on 239 frames; 8 of 17 videos have the eye not fully open 26-70% of the time (`blink_notopen_*`) |
 
 Each folder has its own README with the basic information, the file-to-script table and the results.
 
